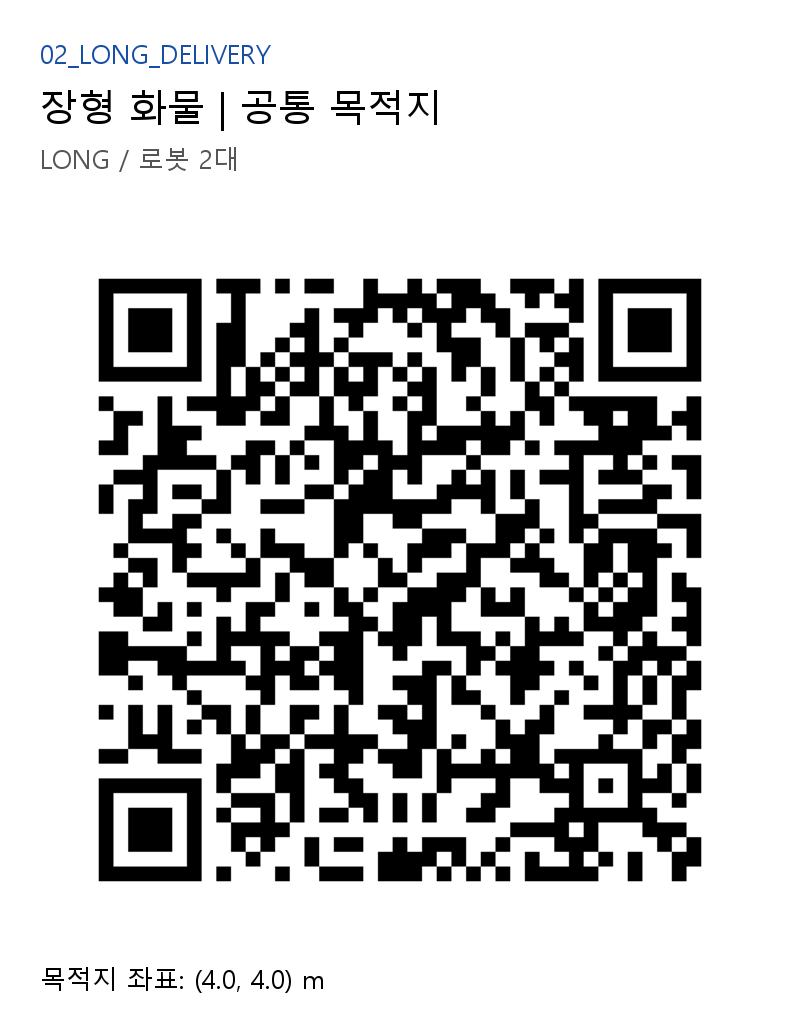
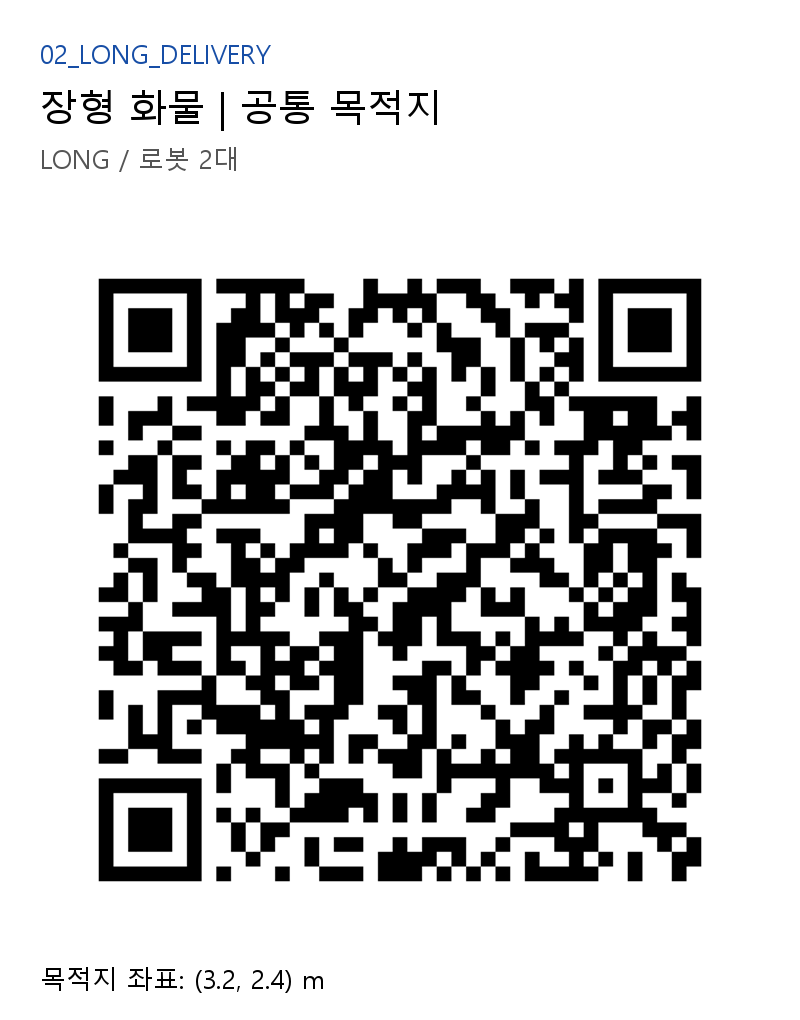
Restore 4 by 3 meter test layout

diff --git a/src/cargo_robot_description/launch/cargo_system.launch.py b/src/cargo_robot_description/launch/cargo_system.launch.py
@@ -100,7 +100,7 @@ def generate_launch_description():
             '-world', 'warehouse_l_shape',
             '-string', robot1_description,
             '-name', 'cargo_robot_1',
-            '-x', '2.30',
+            '-x', '1.80',
             '-y', '0.40',
             '-z', '0.02'
         ],
@@ -113,7 +113,7 @@ def generate_launch_description():
             '-world', 'warehouse_l_shape',
             '-string', robot2_description,
             '-name', 'cargo_robot_2',
-            '-x', '2.70',
+            '-x', '2.20',
             '-y', '0.40',
             '-z', '0.02'
         ],

diff --git a/tools/generate_delivery_qrs.py b/tools/generate_delivery_qrs.py
@@ -8,8 +8,8 @@ from PIL import Image, ImageDraw, ImageFont
 
 
 CARDS = (
-    ("01_SMALL_DELIVERY", "소형 화물 | 공통 목적지", "SMALL / 로봇 1대", 4.00, 4.00, "SMALL_BOX", 2.0),
-    ("02_LONG_DELIVERY", "장형 화물 | 공통 목적지", "LONG / 로봇 2대", 4.00, 4.00, "LONG_BOX", 8.0),
+    ("01_SMALL_DELIVERY", "소형 화물 | 공통 목적지", "SMALL / 로봇 1대", 3.20, 2.40, "SMALL_BOX", 2.0),
+    ("02_LONG_DELIVERY", "장형 화물 | 공통 목적지", "LONG / 로봇 2대", 3.20, 2.40, "LONG_BOX", 8.0),
 )
 
 

diff --git a/src/cargo_fleet_manager/cargo_fleet_manager/mission_manager.py b/src/cargo_fleet_manager/cargo_fleet_manager/mission_manager.py
@@ -23,11 +23,11 @@ class MissionManager(Node):
     # through a rack even though the controller itself only follows points.
     # Test layout: empty floor. Add shelf rectangles here for obstacle tests.
     OBSTACLES = ()
-    MAP_BOUNDS = (0.15, 4.85, 0.15, 4.85)
+    MAP_BOUNDS = (0.15, 3.85, 0.15, 2.85)
     GRID_SIZE = 0.10
     ROBOT_CLEARANCE = 0.28
     LOADING_POINT = (0.60, 0.50)
-    STANDBY_POINT = (2.50, 0.40)
+    STANDBY_POINT = (2.00, 0.40)
 
     def __init__(self):
         super().__init__('mission_manager')

diff --git a/src/cargo_fleet_manager/cargo_fleet_manager/uwb_simulator.py b/src/cargo_fleet_manager/cargo_fleet_manager/uwb_simulator.py
@@ -9,8 +9,8 @@ class UwbSimulator(Node):
     # Gazebo controller odometry starts from (0, 0) for each robot.  UWB must
     # instead report the shared warehouse coordinate frame used by missions.
     WORLD_OFFSETS = {
-        'robot1': (2.30, 0.40),
-        'robot2': (2.70, 0.40),
+        'robot1': (1.80, 0.40),
+        'robot2': (2.20, 0.40),
     }
 
     def __init__(self):

diff --git a/qr_codes/README.md b/qr_codes/README.md
@@ -2,17 +2,17 @@
 
 이 QR들은 `cargo_fleet_manager/qr_reader.py`가 읽는 배송 명령이다. QR을 찍으면 화물 종류에 따라 1대 또는 2대가 배정되고, `대기소 → 적재소 → 목적지 → 대기소` 순서로 이동한다.
 
-모든 QR의 목적지는 공통 목적지 `(4.00, 4.00) m`다. 화물 조건만 로봇 배정에 사용한다.
+모든 QR의 목적지는 공통 목적지 `(3.20, 2.40) m`다. 화물 조건만 로봇 배정에 사용한다.
 
 | 파일 | 화물 | 배정 로봇 | 목적지 좌표 |
 | --- | --- | --- | --- |
-| `01_SMALL_DELIVERY.png` | 소형 상자 2 kg | 1대 | (4.00, 4.00) m |
-| `02_LONG_DELIVERY.png` | 장형 상자 8 kg | 2대 | (4.00, 4.00) m |
+| `01_SMALL_DELIVERY.png` | 소형 상자 2 kg | 1대 | (3.20, 2.40) m |
+| `02_LONG_DELIVERY.png` | 장형 상자 8 kg | 2대 | (3.20, 2.40) m |
 
 QR 내부 데이터 형식은 다음과 같다. `dest_x`, `dest_y`를 바꾸면 새 목적지를 만들 수 있다.
 
 ```json
-{"command":"DELIVERY","cargo_type":"LONG_BOX","weight_kg":8.0,"dest_x":4.00,"dest_y":4.00}
+{"command":"DELIVERY","cargo_type":"LONG_BOX","weight_kg":8.0,"dest_x":3.20,"dest_y":2.40}
 ```
 
 새 카드는 `python3 tools/generate_delivery_qrs.py`로 다시 생성한다.
